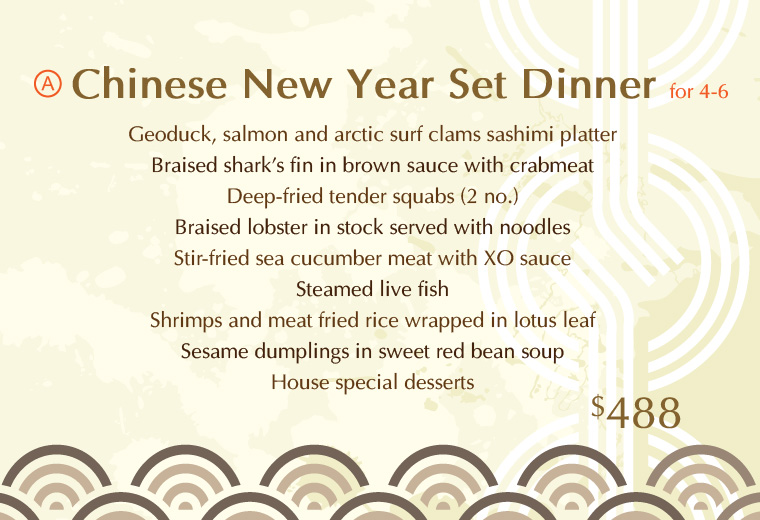
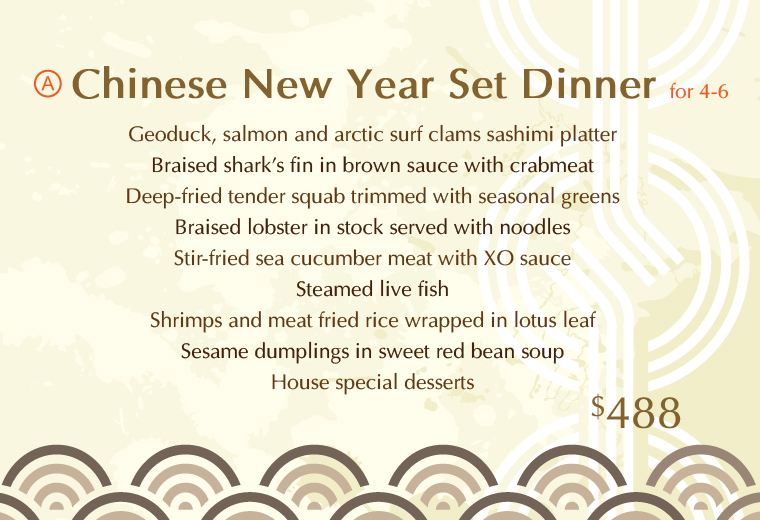
Spelling fix on CNY

Changed region(s): [[0.1513, 0.3692, 0.8171, 0.4]]

diff --git a/english/cny_list.html b/english/cny_list.html
@@ -55,7 +55,7 @@
 			</div>
             
             <div class="heading">
-				<h1>Deep-fried tender squab (Whole)</h1>
+				<h1>Deep-fried tender squab trimmed with seasonal greens</h1>
                 <p class="desc"></p>
                 <div class="tags">
                 </div>
@@ -234,7 +234,7 @@
 			</div>
             
             <div class="heading">
-				<h1>Chef Tony specialy chicken in fish sauce (Half)</h1>
+				<h1>Marinated chicken trimmed with black truffle flakes (Half)</h1>
                 <p class="desc"></p>
                 <div class="tags">
                 </div>

diff --git a/chinese/cny_list.html b/chinese/cny_list.html
@@ -164,7 +164,7 @@
 			</div>
             
             <div class="heading">
-				<h1>太極兩儀 (蟹肉, 瑤柱扒荳苗)</h1>
+				<h1>太極兩儀 (蟹肉瑤柱扒荳苗)</h1>
                 <p class="desc"></p>
                 <div class="tags">
                 </div>
@@ -234,7 +234,7 @@
 			</div>
             
             <div class="heading">
-				<h1>鵬程萬里 (特式魚露雞)(半隻)</h1>
+				<h1>鵬程萬里 (黑松露撈雞)(半隻)</h1>
                 <p class="desc"></p>
                 <div class="tags">
                 </div>
